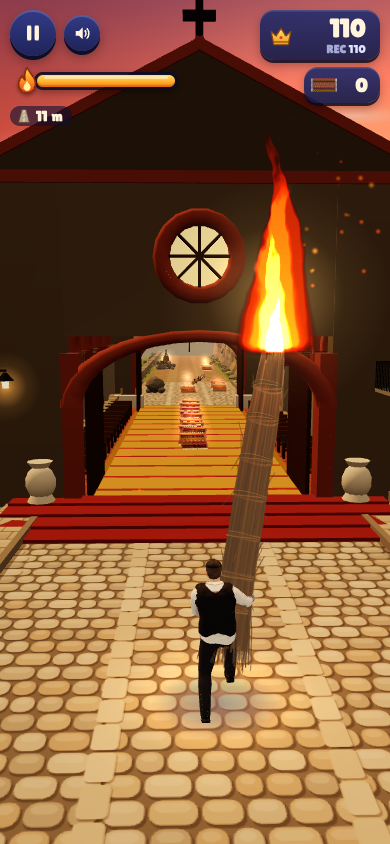
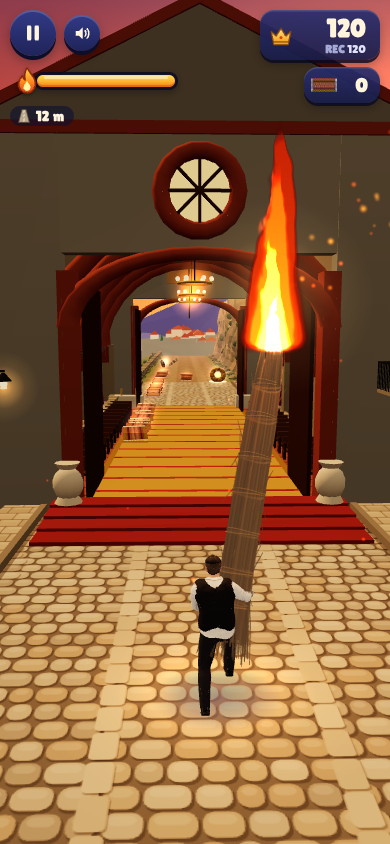
v5 stage 24b: portali alti (niente lastra all'uscita), facciata in scisto grigio, gradini stretti, foto giro di neve

diff --git a/src/game/biomes/builders/santamarta.js b/src/game/biomes/builders/santamarta.js
@@ -6,17 +6,17 @@ import * as THREE from 'three';
 import { Kit, G } from '../../kit.js';
 import { SANTAMARTA } from '../../../config.js';
 
-const C = { schist: '#7a6e62', schistD: '#62584e', brick: '#a5553a', brickD: '#8a4630', stone: '#9c9284', plaster: '#d8cbb2',
+const C = { schist: '#a4a8ac', schistD: '#8e9296', brick: '#a5553a', brickD: '#8a4630', stone: '#9c9284', plaster: '#d8cbb2',
   floor: '#b8674a', runner: '#e2b33c', runnerB: '#b88a26', pew: '#6b4429', wood: '#4a2e1c', step: '#a8442e', marble: '#efe9de', gold: '#e0b450' };
 const tor = (r, t, rs, ts, arc = Math.PI * 2) => new THREE.TorusGeometry(r, t, rs, ts, arc);
-export const SM = { HW: 7.2, H: 11.5, RIDGE: 15.5, STEPS: 4, WALL: 0.8 };
+export const SM = { HW: 7.2, H: 13, RIDGE: 16.8, STEPS: 4, WALL: 0.8 };
 
 export function buildSantaMarta(seed = 1) {
   const L = SANTAMARTA.LEN_M, { HW, H, RIDGE, WALL } = SM, k = new Kit(500 + seed);
   const zc = -L / 2;
   // ---- gradini rossi davanti al portone (rampa bassa: la corsa non salta) e urne bianche
-  for (let i = 0; i < SM.STEPS; i++) k.add(G.box(HW * 2 - 1, 0.12 + i * 0.1, 1.0), C.step, { y: (0.12 + i * 0.1) / 2, z: 4 - i * 1.0, vary: 0.05 });
-  for (const s of [-1, 1]) { k.add(G.cyl(0.35, 0.5, 0.25, 10), C.marble, { x: s * 5.6, y: 0.55, z: 1.2 }); k.add(G.sph(0.55, 10, 7), C.marble, { x: s * 5.6, y: 1.1, z: 1.2, sy: 1.1 }); k.add(G.cyl(0.45, 0.3, 0.2, 10), C.marble, { x: s * 5.6, y: 1.75, z: 1.2 }); }
+  for (let i = 0; i < SM.STEPS; i++) k.add(G.box(10.4, 0.12 + i * 0.1, 1.0), C.step, { y: (0.12 + i * 0.1) / 2, z: 4 - i * 1.0, vary: 0.05 });
+  for (const s of [-1, 1]) { k.add(G.cyl(0.35, 0.5, 0.25, 10), C.marble, { x: s * 4.6, y: 0.55, z: 1.2 }); k.add(G.sph(0.55, 10, 7), C.marble, { x: s * 4.6, y: 1.1, z: 1.2, sy: 1.1 }); k.add(G.cyl(0.45, 0.3, 0.2, 10), C.marble, { x: s * 4.6, y: 1.75, z: 1.2 }); }
   // ---- pavimento in cotto e passatoia gialla tessuta lungo le corsie
   k.add(G.box(HW * 2, 0.08, L), C.floor, { y: 0.04, z: zc, vary: 0.08 });
   for (let z = -1; z > -L; z -= 1.2) k.add(G.box(HW * 2, 0.085, 0.05), '#8f4c36', { y: 0.045, z });
@@ -63,9 +63,9 @@ export function buildSantaMarta(seed = 1) {
   for (const s of [-1, 1]) k.add(G.box(len + 0.6, 0.3, L + 0.6), '#9a4a2e', { x: s * (HW + WALL) / 2, y: H + (RIDGE - H) / 2, z: zc, rz: -s * sl, vary: 0.05 });
   // ---- lampadari (luce calda, unlit)
   for (let i = 1; i < 6; i += 2) { const z = -i * bay - bay / 2;
-    k.add(G.box(0.05, 3.0, 0.05), '#3a2a1a', { y: H - 1.5, z });
-    k.add(G.torus(0.8, 0.06, 4, 12), C.gold, { y: H - 3.1, z, rx: Math.PI / 2 });
-    for (let j = 0; j < 6; j++) { const a = j / 6 * Math.PI * 2; k.add(G.sph(0.12, 6, 5), '#ffe3a0', { x: Math.cos(a) * 0.8, y: H - 2.9, z: z + Math.sin(a) * 0.8, unlit: true }); } }
+    k.add(G.box(0.05, 4.4, 0.05), '#3a2a1a', { y: H - 2.2, z });
+    k.add(G.torus(0.8, 0.06, 4, 12), C.gold, { y: H - 4.4, z, rx: Math.PI / 2 });
+    for (let j = 0; j < 6; j++) { const a = j / 6 * Math.PI * 2; k.add(G.sph(0.12, 6, 5), '#ffe3a0', { x: Math.cos(a) * 0.8, y: H - 4.2, z: z + Math.sin(a) * 0.8, unlit: true }); } }
   // ---- abside: altare bianco a lato, crocifisso e affresco (sopra il portale di uscita)
   const zb = -L;
   for (const s of [-1, 1]) {
@@ -73,7 +73,7 @@ export function buildSantaMarta(seed = 1) {
     for (const c of [-0.6, 0.6]) k.add(G.cyl(0.08, 0.08, 0.6, 6), C.gold, { x: s * 5.0 + c, y: 1.4, z: zb + 1.4 });
   }
   // ---- facciata in scisto (davanti) e parete posteriore, entrambe con grande portale ad arco in mattoni
-  const DOOR_W = 9.4, DOOR_H = 6.2;
+  const DOOR_W = 9.4, DOOR_H = 9.0;
   for (const [z, front] of [[0, true], [zb, false]]) {
     const zz = z + (front ? 0.4 : -0.4);
     for (const s of [-1, 1]) k.add(G.box((HW * 2 + WALL * 2 - DOOR_W) / 2, H, 0.8), C.schist, { x: s * (DOOR_W / 2 + (HW * 2 + WALL * 2 - DOOR_W) / 4), y: H / 2, z: zz, vary: 0.06 });
@@ -91,19 +91,19 @@ export function buildSantaMarta(seed = 1) {
     for (const s of [-1, 1]) k.add(G.box(0.15, DOOR_H - 1.0, DOOR_W / 2 - 0.5), C.wood, { x: s * (DOOR_W / 2 - 0.6), y: (DOOR_H - 1.0) / 2, z: zz + (front ? -1 : 1) * (DOOR_W / 4 + 0.2), vary: 0.05 });
     if (front) {
       // rosone tondo incorniciato di mattoni e croce in cima
-      k.add(G.torus(1.3, 0.3, 6, 18), C.brick, { y: 8.9, z: zz + 0.45 });
-      k.add(G.cyl(1.25, 1.25, 0.1, 16), '#e8c070', { y: 8.9, z: zz + 0.42, rx: Math.PI / 2, unlit: true });
-      for (let j = 0; j < 4; j++) k.add(G.box(2.4, 0.1, 0.12), '#5a3a22', { y: 8.9, z: zz + 0.5, rz: j * Math.PI / 4 });
+      k.add(G.torus(1.3, 0.3, 6, 18), C.brick, { y: 11.0, z: zz + 0.45 });
+      k.add(G.cyl(1.25, 1.25, 0.1, 16), '#e8c070', { y: 11.0, z: zz + 0.42, rx: Math.PI / 2, unlit: true });
+      for (let j = 0; j < 4; j++) k.add(G.box(2.4, 0.1, 0.12), '#5a3a22', { y: 11.0, z: zz + 0.5, rz: j * Math.PI / 4 });
       k.add(G.box(0.25, 1.8, 0.25), '#3a3030', { y: RIDGE + 0.9, z: zz }); k.add(G.box(1.1, 0.25, 0.25), '#3a3030', { y: RIDGE + 1.2, z: zz });
     } else {
       // affresco dell'abside sopra il portale di uscita, crocifisso
       k.add(new THREE.CylinderGeometry(2.6, 2.6, 0.1, 16, 1, false, 0, Math.PI), '#7a8ab0', { y: DOOR_H + 1.0, z: zz + 0.45, rx: Math.PI / 2, rz: Math.PI / 2 });
       k.add(G.box(3.6, 1.4, 0.12), '#c8a070', { y: DOOR_H + 1.9, z: zz + 0.5 });
-      k.add(G.box(0.18, 1.6, 0.15), '#5a3a22', { y: DOOR_H + 3.3, z: zz + 0.55 }); k.add(G.box(1.0, 0.18, 0.15), '#5a3a22', { y: DOOR_H + 3.6, z: zz + 0.55 });
+      k.add(G.box(0.18, 1.6, 0.15), '#5a3a22', { y: DOOR_H + 2.6, z: zz + 0.55 }); k.add(G.box(1.0, 0.18, 0.15), '#5a3a22', { y: DOOR_H + 2.9, z: zz + 0.55 });
       k.add(G.box(2.0, 0.3, 0.6), C.marble, { y: DOOR_H + 0.3, z: zz + 0.6 });
     }
   }
   return k.build({ ao: 0.15 });
 }
 // luci calde interne [x, y, z, intensita']
-export function santaMartaLamps() { const L = SANTAMARTA.LEN_M, bay = L / 6; return [1, 3, 5].map((i) => [0, SM.H - 3.0, -i * bay - bay / 2, 1]).concat([[0, 8.9, 0.5, 0.8]]); }
+export function santaMartaLamps() { const L = SANTAMARTA.LEN_M, bay = L / 6; return [1, 3, 5].map((i) => [0, SM.H - 4.3, -i * bay - bay / 2, 1]).concat([[0, 11.0, 0.5, 0.8]]); }

diff --git a/tests/shots_santamarta.py b/tests/shots_santamarta.py
@@ -1,20 +1,22 @@
 import asyncio, sys
 from playwright.async_api import async_playwright
 URL='http://127.0.0.1:4797/'
-MARKS=[226,236,242,248,256,264,272]
+LAP=int(sys.argv[1]) if len(sys.argv)>1 else 0
+PRE='' if LAP==0 else f'neve-giro{LAP+1}-'
+MARKS=[226,236,242,248,256,264,272] if LAP==0 else [236,248,264]
 JS="""(()=>{const g=window.__frk.game,s=g.sim; s.fuel=100; s.invuln=1; if(s.mode==='dance'||s.danceCue) s.skipDance&&s.skipDance(); if(s.mode==='shop') s.exitShop&&s.exitShop(); return g.world.env.cur.bDist%1600})()"""
 async def main():
   async with async_playwright() as p:
     b=await p.chromium.launch(executable_path='/usr/bin/google-chrome',args=['--use-angle=swiftshader','--enable-unsafe-swiftshader','--ignore-gpu-blocklist'])
     ctx=await b.new_context(viewport={'width':390,'height':844},device_scale_factor=1,has_touch=True,is_mobile=True)
     pg=await ctx.new_page()
-    await pg.goto(f'{URL}?test=1&map=village&at=215')
+    await pg.goto(f'{URL}?test=1&map=village&at=215&lap={LAP}')
     await pg.wait_for_function('window.__frk && document.querySelector("#loading").classList.contains("hidden")',timeout=90000)
     await asyncio.sleep(1); await pg.click('[data-act=play]'); mi=0
     for _ in range(3000):
       loc=await pg.evaluate(JS)
       if mi<len(MARKS) and MARKS[mi]<=loc<999:
-        await pg.screenshot(path=f'screenshots/feat-santamarta-{MARKS[mi]}m.png'); print(MARKS[mi],loc,flush=True); mi+=1
+        await pg.screenshot(path=f'screenshots/feat-santamarta-{PRE}{MARKS[mi]}m.png'); print(MARKS[mi],loc,flush=True); mi+=1
       if mi>=len(MARKS): break
       await asyncio.sleep(0.03)
     await b.close()
